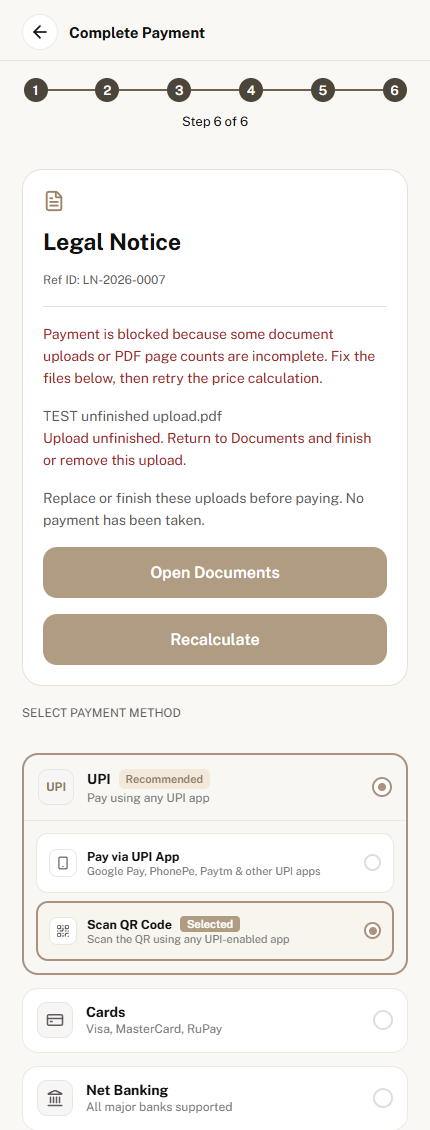
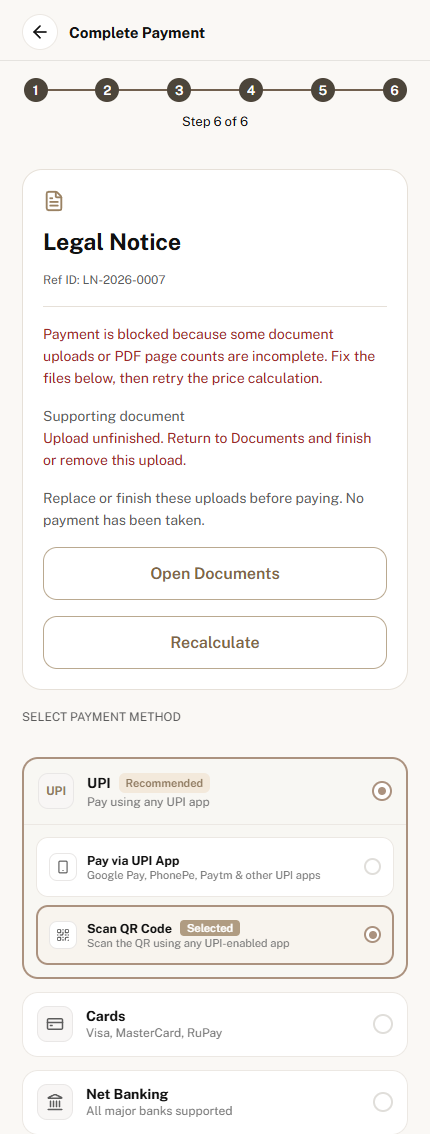
fix: keep Legal Notice payment errors and legacy labels readable

diff --git a/apps/mobile/features/payments/ServiceCheckout.tsx b/apps/mobile/features/payments/ServiceCheckout.tsx
@@ -11,7 +11,7 @@ import {colors,font} from '../../constants/theme';
 import {useCaseRecord,useFirQuote} from '../fir/client/api';
 import {money} from '../fir/client/format';
 import {TestPaymentLabel,useCopy} from '../fir/client/ui';
-import type {QuoteBreakdown} from '@legalitt/shared';
+import {noticeDocumentLabel,type QuoteBreakdown} from '@legalitt/shared';
 
 type Config={name:string;code:'legal_notice'|'fir_draft';payment:string;scan:string;success:string;tracking:string;review:string;documents:string;steps:number};
 export const NOTICE_CHECKOUT:Config={name:'Legal Notice',code:'legal_notice',payment:'/legal-notice/step6',scan:'/legal-notice/scan-pay',success:'/legal-notice/success',tracking:'/legal-notice/tracking',review:'/legal-notice/step5',documents:'/legal-notice/step4',steps:6};
@@ -36,7 +36,7 @@ export function ServicePayment({config:c}:{config:Config}){
   return <WizardShell step={c.steps} totalSteps={c.steps} header="leading" title="Complete Payment" subtitle="" align="top" background="tinted" busy={busy} hideButton buttonLabel="Pay" onContinue={()=>void next()} onBack={()=>router.replace(path(c.review,caseId))}>
     {f.loading?<Text style={s.body}>Loading payment details…</Text>:!record?<View style={s.card}><Text style={s.error}>{f.error||'Choose a request to pay.'}</Text><Action label="Retry" onPress={f.reload}/></View>:record.service_code!==c.code?<Text style={s.error}>This link is for a different service. Open the request from My Requests.</Text>:record.status!=='payment_pending'?<View style={s.card}><Text style={s.body}>{record.status==='draft'?'Submit your request from Review before paying.':'This case is not awaiting a payment. Check its current status before proceeding.'}</Text><Action label={record.status==='draft'?'Go to Review':'View request'} onPress={()=>router.replace(path(record.status==='draft'?c.review:c.tracking,caseId))}/></View>:<>
       <View style={s.card}><FileText size={22} color="#9A8263"/><Text style={s.large}>{c.name}</Text><Text style={s.muted}>Ref ID: {record.reference}</Text><View style={s.rule}/>
-        {q.loading?<Text style={s.body}>Calculating your fee…</Text>:q.error?<><Text style={s.error}>{q.error}</Text><Action label="Recalculate" onPress={q.reload}/></>:q.quote?.status==='blocked'?<><Text accessibilityRole="alert" style={s.error}>{q.quote.message}</Text>{q.quote.documents.map(d=><View key={d.id}><Text style={s.body}>{d.filename}</Text><Text style={s.error}>{d.reason}</Text></View>)}<Text style={s.body}>Replace or finish these uploads before paying. No payment has been taken.</Text><Action label="Open Documents" onPress={()=>router.push(path(c.documents,caseId))}/><Action label="Recalculate" onPress={q.reload}/></>:ready?<Rows breakdown={ready.breakdown}/>:<Text style={s.body}>No price is available yet. Recalculate to retry.</Text>}
+        {q.loading?<Text style={s.body}>Calculating your fee…</Text>:q.error?<><Text style={s.error}>{q.error}</Text><Action label="Recalculate" onPress={q.reload}/></>:q.quote?.status==='blocked'?<><Text accessibilityRole="alert" style={s.error}>{q.quote.message}</Text>{q.quote.documents.map(d=><View key={d.id}><Text style={s.body}>{c.code==='legal_notice'?noticeDocumentLabel(d):d.filename}</Text><Text style={s.error}>{d.reason}</Text></View>)}<Text style={s.body}>Replace or finish these uploads before paying. No payment has been taken.</Text><Action label="Open Documents" onPress={()=>router.push(path(c.documents,caseId))}/><Action label="Recalculate" onPress={q.reload}/></>:ready?<Rows breakdown={ready.breakdown}/>:<Text style={s.body}>No price is available yet. Recalculate to retry.</Text>}
       </View><Text style={[s.muted,{marginVertical:18}]}>SELECT PAYMENT METHOD</Text><PaymentMethods value={selection} onChange={setSelection} disabled={busy}/>
       {ready&&<View style={s.card}><View style={s.row}><Text style={s.body}>Amount to pay</Text><Text style={s.title}>{money(ready.breakdown.total_paise)}</Text></View><Action primary label={busy?'Opening payment…':'Pay →'} disabled={busy} onPress={()=>void next()}/></View>}
       {ready?.simulated&&<TestPaymentLabel text="Test payment only. No money will be charged."/>}

diff --git a/apps/mobile/features/legal-notice/NoticeIntake.tsx b/apps/mobile/features/legal-notice/NoticeIntake.tsx
@@ -17,7 +17,7 @@ import {noticeHref} from './navigation';
 import DocumentThumbnail from '../documents/DocumentThumbnail';
 
 export const NOTICE_ISSUES=[['property-dispute','Property Dispute'],['money-recovery','Money Recovery'],['tenant-issue','Tenant Issue'],['family-dispute','Family Dispute'],['cheque-bounce','Cheque Bounce'],['consumer-complaint','Consumer Complaint'],['other','Any other']] as const;
-export const issueLabel=(code?:string|null)=>NOTICE_ISSUES.find(([key])=>key===code)?.[1]??code??'';
+export const issueLabel=(code?:string|null)=>NOTICE_ISSUES.find(([key])=>key===code?.replaceAll('_','-'))?.[1]??'';
 const slots:Record<string,[string,string][]>= {
   'property-dispute':[['notice_support_property','Property papers (sale deed, khata)'],['notice_support_agreement','Agreement'],['notice_support_screenshots','Screenshots']],
   'money-recovery':[['notice_support_invoice','Invoice / bill'],['notice_support_agreement','Agreement'],['notice_support_payment','Payment proof / ledger'],['notice_support_screenshots','Screenshots']],
